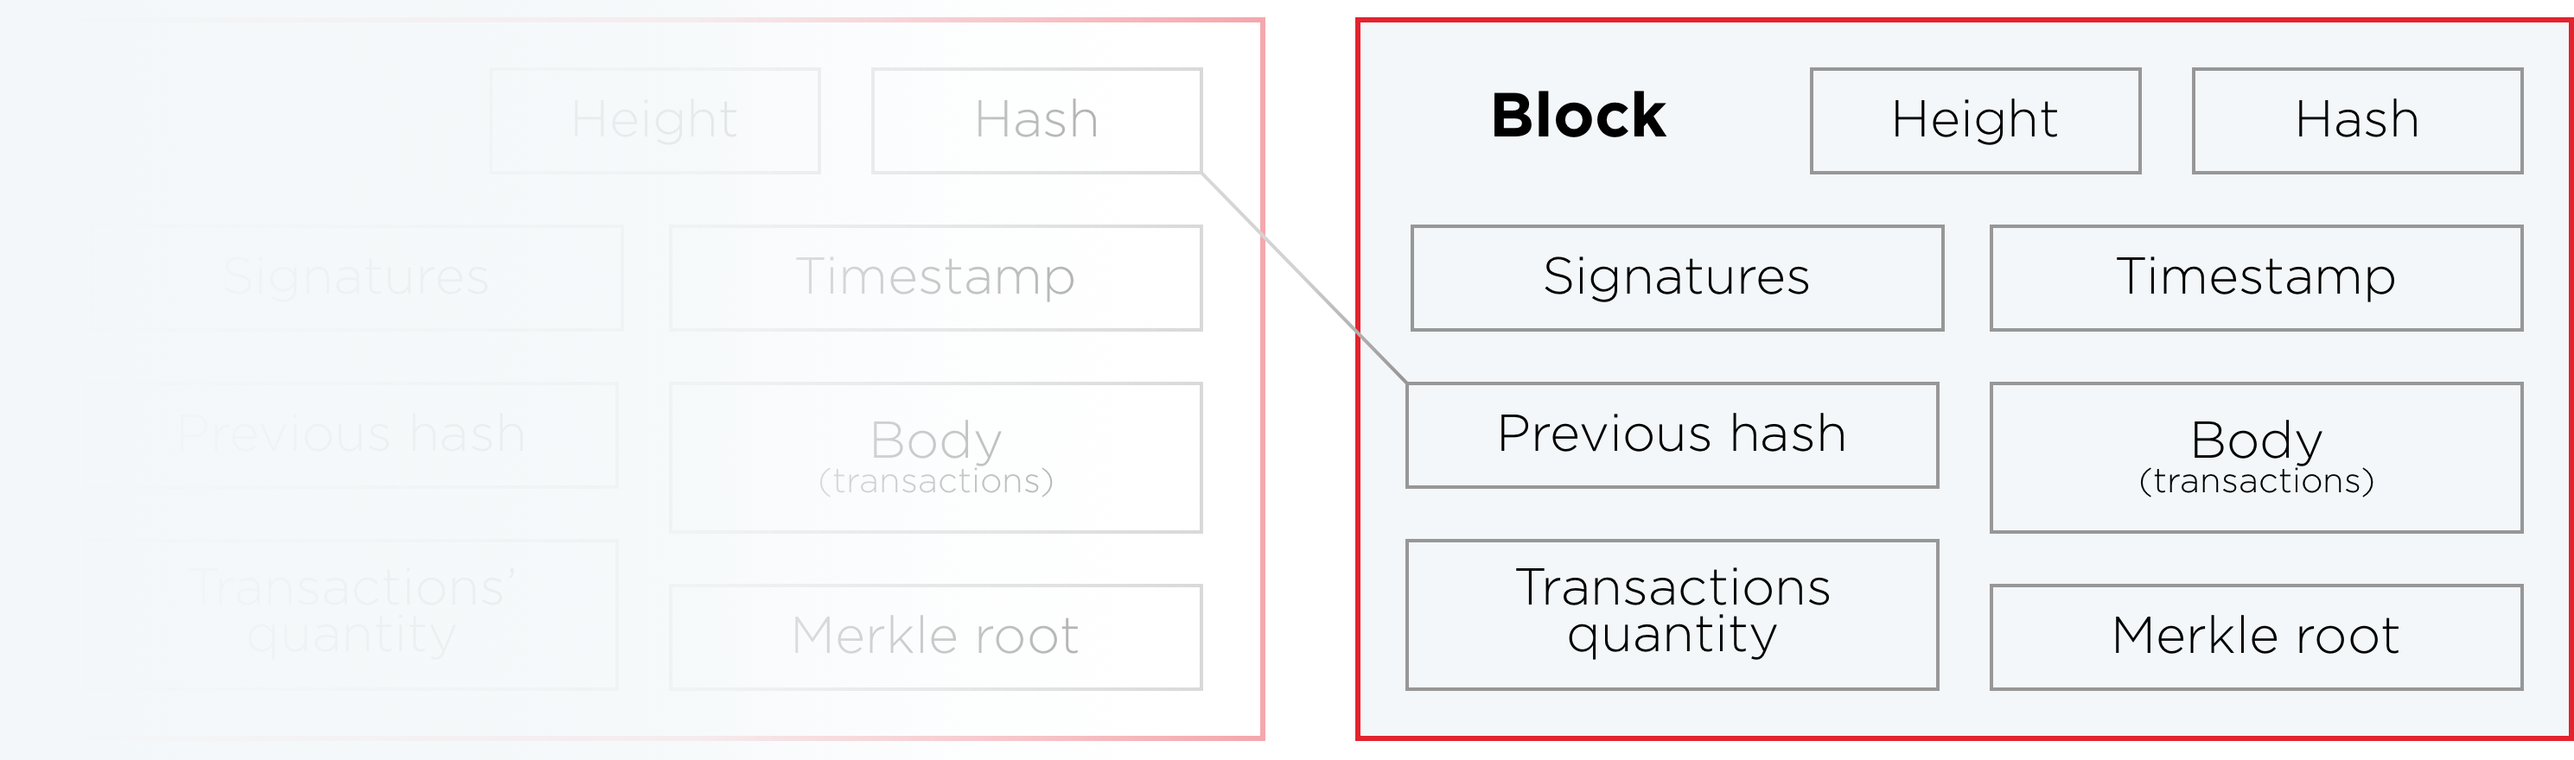
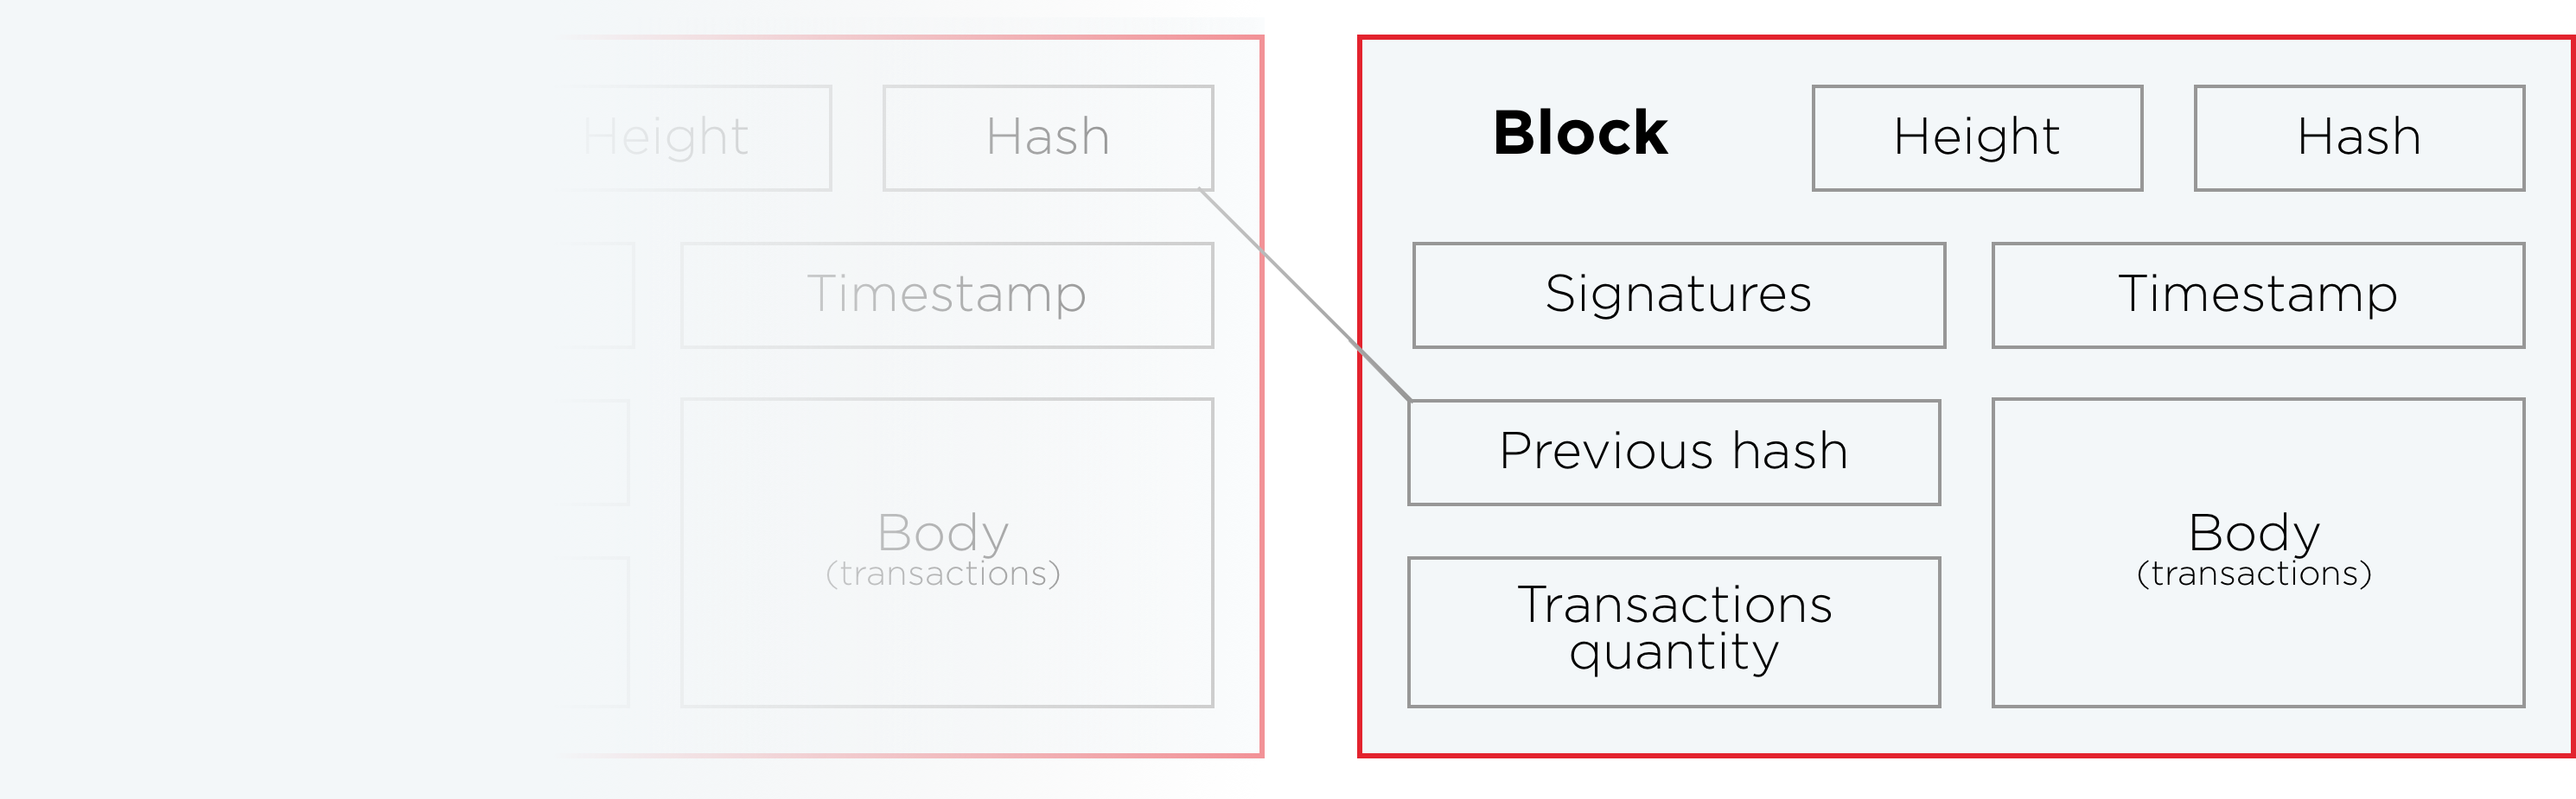
Rework overview, build and run section

diff --git a/source/stylesheets/screen.css.scss b/source/stylesheets/screen.css.scss
@@ -612,3 +612,13 @@ html, body {
 .highlight, .highlight .w {
   background-color: $code-bg;
 }
+
+.gist {
+  margin-right: 35%;
+  padding: 0 28px;
+  box-sizing: border-box;
+  display: block;
+  margin-bottom: 1em;
+  overflow: auto;
+  border: 0 !important;
+}

diff --git a/source/includes/_run.md b/source/includes/_run.md
@@ -1,30 +1,64 @@
-# Run irohad locally
+# Run the daemon (irohad) 
 
-## Generate genesis block
+## Create genesis block
 
-1. Create peers.list file containing the peers' addresses. For the local node suffice to add only single peer:
+A genesis block is the first block in the chain. <br>
+<b>Important:</b> each peer in the initialized network should have exactly the same genesis block, so create it once and distribute across peers. This block may have <b>any data</b>, as no-one validates it in the peer network.
+
+### Using iroha-cli
+
+#### Create list of peers
+Create peers.list file containing network addresses of peers' internal ports in the network (a single peer address goes on new line. If you want to run Iroha on single peer, it is sufficient to mention only localhost: <br> `$ echo 'localhost:10001' > peers.list`
+
+As an example, for 4 peers the file will look like the following:
+<ul>
+  <li>10.128.13.1:10001</li>
+  <li>10.128.13.2:10001</li>
+  <li>10.128.13.3:10001</li>
+  <li>10.128.13.4:10001</li>
+</ul>
+
+<aside class="notice">
+Internal port is used for communication of internal components. Each peer potentially may have different, adjustable internal port numbers.
+</aside>
+
+#### Use iroha-cli
+Generate genesis block using iroha-cli (see shell command on the right side).
+
+Iroha-cli tool is used to generate keypairs for every peer, mentioned in the peers list. This is done only for convenience — in production environment please consider using manual or more trusted approach.
+
+> Generating genesis block
+
 ```bash
-$ echo 'localhost:10001' > peers.list
+$ iroha-cli --genesis_block \ 
+--peers_address peers.list
 ```
+Executing this command will result in generation of following files:
 
-2. Generate genesis block using iroha-cli:
-```bash
-$ iroha-cli --genesis_block --peers_address peers.list
-```
+* `admin@test.priv` and `admin@test.pub` — keypair for user with admin and asset creator rights
+* `test@test.priv` and `tes@test.pub` — keypair for user with user rights
+* `node0.priv` and `node0.pub` (and other keypairs for each node, starting with 0) — keypair for first node, mentioned in the peers.list
+* `genesis.block` — genesis block itself
 
-File genesis.block with keypair files for Administrator account (`admin@test.priv` and `admin@test.pub`) and node (`node0.priv` and `node0.pub`) should be generated in the same folder.
+<aside class="notice">
+What are those asset creator, admin, user rights? Iroha supports role-based access control, so initial roles for accounts should be created in genesis block. Check permission model section of the documentation to find out more. 
+</aside>
 
-## Prepare config file
+### Manually
+
+Follow JSON structure of the block, as it is reflected in [JSON schema for the block](https://gist.github.com/neewy/4e347bc8493951733998e01af633dbbb).
+
+## Prepare configuration file
 
 Configuration file keeps information about storage credentials and irohad parameters:
 
 | Parameter         | Type    | Meaning                                                                                       |
 |-------------------|---------|-----------------------------------------------------------------------------------------------|
-| block_store_path  | string  | Path to store blocks of committed transactions                                                |
-| torii_port        | integer | Port to access iroha node                                                                     |
-| internal_port     | integer | Port used to communicate ordering service, YAC consensus and block loader for synchronization |
+| block_store_path  | string  | Path to store blocks of committed transactions (flat file storage)                            |
+| torii_port        | integer | Port to access iroha node gRPC (default 50001)                                                |
+| internal_port     | integer | Port for communication between ordering service, YAC consensus and block loader for synchronization (default 10001) |
 | pg_opt            | string  | Postgres credentials                                                                          |
-| redis_host        | string  | Redis host's IP address                                                                       |
+| redis_host        | string  | Redis host IP address                                                                       |
 | redis_port        | integer | Port to access redis storage                                                                  |
 | max_proposal_size | integer | Maximum size of created proposals                                                             |
 | proposal_delay    | integer | The period of time (in ms) used to prepare proposal of transactions                           |
@@ -33,20 +67,7 @@ Configuration file keeps information about storage credentials and irohad parame
 
 Example:
 
-```
-{
-  "block_store_path" : "/tmp/block_store/",
-  "torii_port" : 50051,
-  "internal_port" : 10001,
-  "pg_opt" : "host=localhost port=5432 user=postgres password=mysecretpassword",
-  "redis_host" : "localhost",
-  "redis_port" : 6379,
-  "max_proposal_size" : 10,
-  "proposal_delay" : 5000,
-  "vote_delay" : 5000,
-  "load_delay" : 5000
-}
-```
+<script src="https://gist.github.com/neewy/1ebe653de074dac1675f74eb19824b2e.js"></script>
 
 ## Launch irohad
 
@@ -56,10 +77,8 @@ To launch irohad daemon, following parameters must be passed:
 |---------------|----------------------------------------------------------------------------------------------|
 | config        | configuration file, containing postgres, and redis connection, and values to tune the system |
 | genesis_block | initial block in the ledger                                                                  |
-| keypair_name  | private and public key file names without .priv or .pub extension. Used by peer to sign the blocks                             |
+| keypair_name  | private and public key file names without extension (.priv or .pub). Used by peer to sign the blocks |
 
-Use this command to launch iroha from development branch:
+Use this command to launch iroha:
 
-```
-irohad --config example/config.sample --genesis_block example/genesis.block --keypair_name example/node
-```
+`irohad --config example/config.sample --genesis_block example/genesis.block --keypair_name example/node0`

diff --git a/source/includes/_build.md b/source/includes/_build.md
@@ -26,12 +26,12 @@ Run the script `run-iroha-dev.sh`, contained in the folder `scripts`: `sh .../ir
 After you execute this script, following things happen:
 
  1. It checks if you don't have containers with Iroha already running. If yes — it will reattach you to interactive shell. Assuming if you don't have any, then:
- 2. The script will download iroha-docker-develop, redis and postgres images. Iroha image contains all development dependencies and is based on top of ubuntu:16.04.
+ 2. The script will download iroha-docker-develop, redis and postgres images. Iroha image contains all development dependencies, and is based on top of ubuntu:16.04.
  3. Three containers are created and launched.
- 4. User is attached to interactive environment for development and testing with `iroha` folder mounted from host machine.
+ 4. The user is attached to the interactive environment for development and testing with `iroha` folder mounted from the host machine.
 
 <aside class="notice">
-Docker environment will be removed when you logout from the container.
+Docker environment will be removed when you detach from the container.
 </aside>
 
 
@@ -50,7 +50,7 @@ On macOS $(nproc) variable does not work. Check number of logical cores with sys
 
 We use CMake to build platform-dependent build files. Run shell commands from "Build" section on the right. Built binaries (`irohad` and `iroha-cli`) will be in `./build/bin` directory.
 
-After you built whole project — please run tests to check the operability of the daemon.
+After you built the project — please run tests to check the operability of the daemon.
 
 ### Add to irohad and iroha-cli to path (optional)
 
@@ -78,8 +78,6 @@ Execute `run-iroha-dev.sh` again to attach to existing container.
 
 ## Linux or macOS
 
-To launch Iroha daemon, running postgres and redis services are required. You may launch them on your local machine, or use docker containers, as provided in the right side.
-
 > Launching Docker and Postgres in Docker
 
 ``` shell
@@ -91,10 +89,23 @@ docker run --name some-postgres \
 -p 5432:5432 -d postgres:9.5
 ```
 
+To launch Iroha daemon, running postgres and redis services are required. You may launch them on your local machine, or use docker containers, as provided on the right side.
+
 ### Linux (debian-based)
 
-To install dependencies, clone and build the project please [use this gist](https://gist.github.com/neewy/39557aa444c3317aeffbdedd9f0f51e2).
+To install dependencies, clone, and build the project, please use this code:
+<script src="https://gist.github.com/neewy/39557aa444c3317aeffbdedd9f0f51e2.js"></script>
 
+#### Outdated dependencies 
+
+In case that some dependencies are outdated in apt, you are advised to use following sources to install dependencies:
+
+##### Boost
+To install Boost libraries (`libboost-all-dev`), use [current release](http://www.boost.org/users/download/) from Boost webpage.
+Exact dependencies are system and filesystem, so use `./bootstrap.sh --with-libraries=system,filesystem` when you are building the project.
+
+##### CMake
+To install CMake tool (`cmake`), use [latest release](https://cmake.org/download/) from CMake webpage.
 
 ### macOS
 
@@ -105,4 +116,5 @@ brew tap soramitsu/iroha
 brew install iroha
 ```
 
-To install dependencies, clone and build the project please [use this gist](https://gist.github.com/neewy/bc0fea777592a5381aa4ab6e68bfe699).
+To install dependencies, clone, and build the project, please use this code:
+<script src="https://gist.github.com/neewy/bc0fea777592a5381aa4ab6e68bfe699.js"></script>

diff --git a/source/includes/_block.md b/source/includes/_block.md
@@ -12,6 +12,5 @@ In order to understand contents of the block better, this section tells about it
 * height — a quantity of blocks in the chain up to the block
 * timestamp — unix time (in millis) of block forming by a peer
 * body — transactions, which successfully passed validation and consensus step
-* merkle root — is used for fast checks of [chain integrity](https://en.wikipedia.org/wiki/Merkle_tree)
 * transactions quantity
 * previous hash of block
